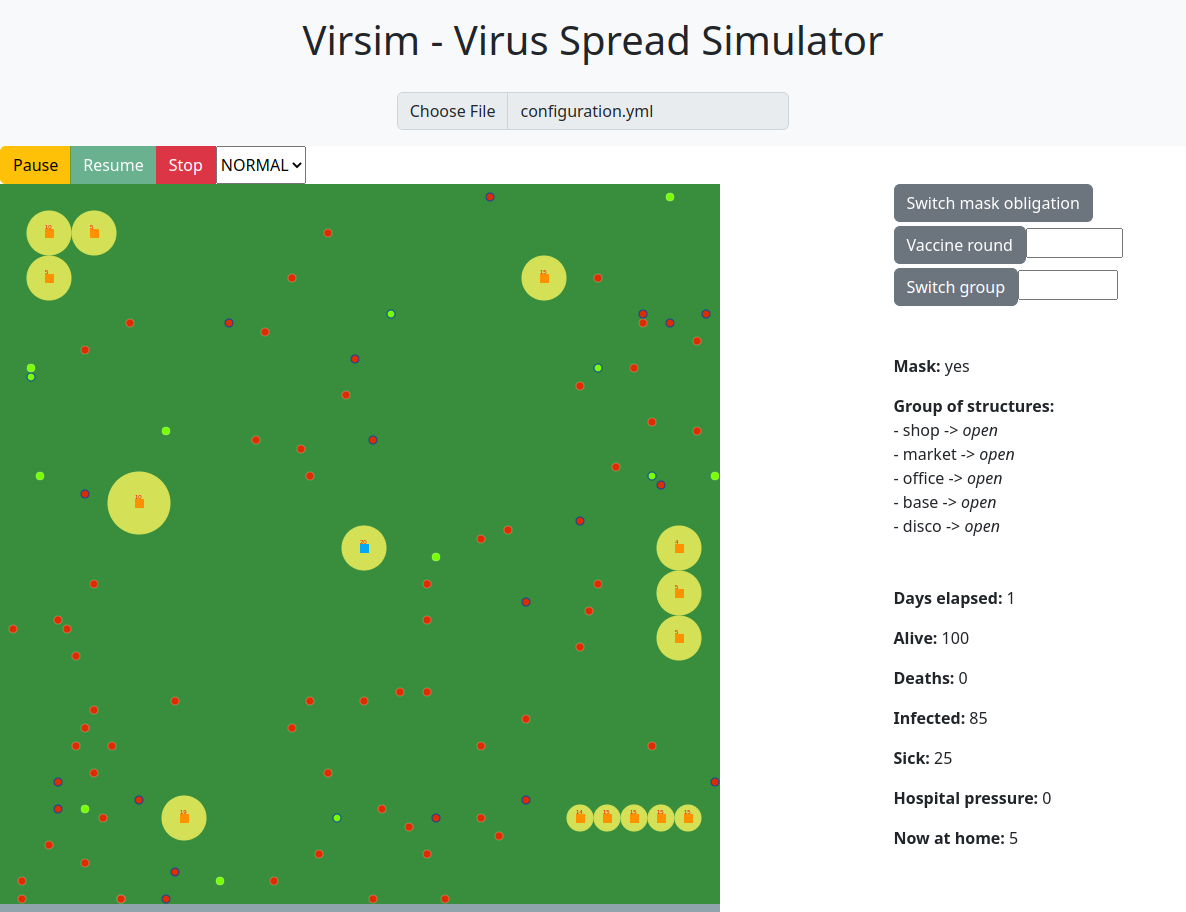
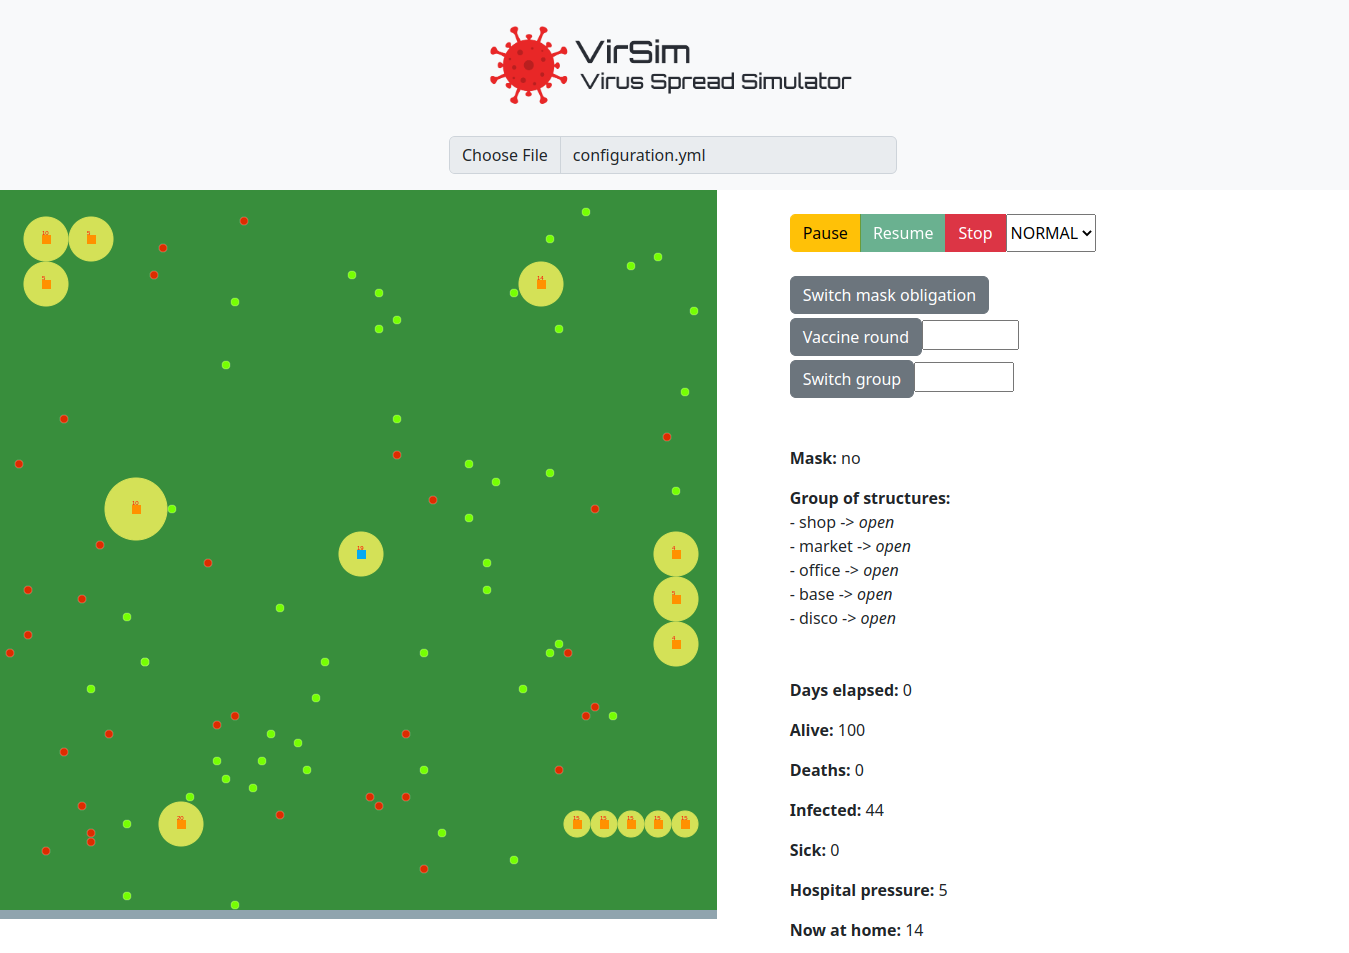
chore: updated simulation site

diff --git a/root/index.html b/root/index.html
@@ -12,7 +12,7 @@
 <body>
 <div class="container-fluid p-0">
     <div class="jumbotron bg-light text-dark jumbotron-fluid text-center p-3 m-0" id="div-title">
-        <h1>Virsim - Virus Spread Simulator</h1>
+        <img src="https://github.com/VirusSpreadSimulator/PPS-22-virsim/blob/gh-pages/assets/logo_light.png?raw=true#gh-light-mode-only" style="max-width:80%; max-height: 100px" alt="Virsim - Virus Spread Simulator"/>
         <div class="row">
             <div class="col-sm-4"></div>
             <div class="col-sm-4" id="div-center">
@@ -23,11 +23,11 @@
             <div class="col-sm-4"></div>
         </div>
     </div>
-    <div class="btn-group" id="commands-group"></div>
     <div class="row m-0">
-        <div class="col-md-9 col-sm-12 p-0" id="simulation">
+        <div class="col-md-7 col-sm-12 p-0" id="simulation">
         </div>
-        <div class="col-md-3 col-sm-12 px-1" id="lateral-panel" style="display: none">
+        <div class="col-md-5 col-sm-12 px-1" id="lateral-panel" style="display: none">
+            <div class="btn-group my-4" id="commands-group"></div>
             <div id="dynamic-actions-group"></div>
             <div id="dynamic-actions-log" class="mt-5">
                 <p><span class="fw-bold">Mask: </span><span id="mask-status"></span></p>
